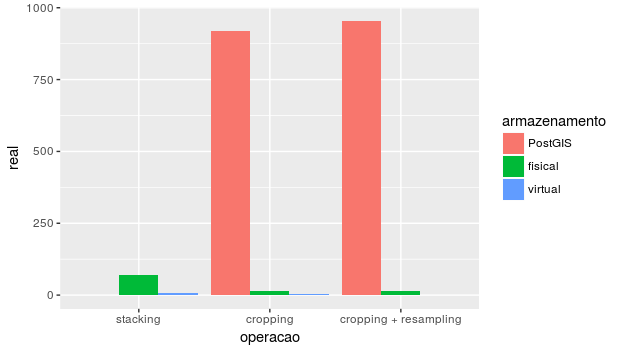
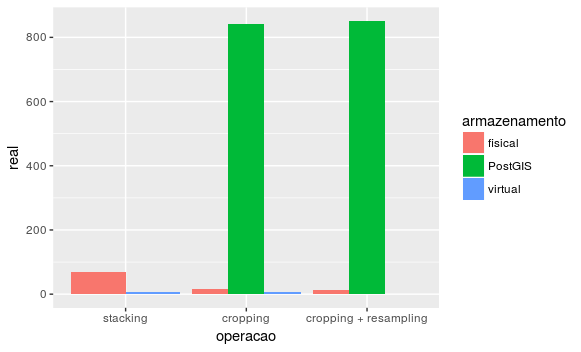
small change in postgis benchmark

diff --git a/benchmark/README.md b/benchmark/README.md
@@ -92,19 +92,29 @@ O CSV resultante foi lido e plotado com ggplot2:
 
 ```{r}
 bench <- read.csv("./benchmark_raster.csv", sep=';')
-benchPostGIS <- (list.files("./", pattern = "_mod"))
-tables <- lapply(benchPostGIS, read.csv, sep=";")
+bench <- bench[,c(1,4,5)]
+
+benchPostGIS <- (list.files("./", pattern = "benchmark_rasterCrop"))
+tables <- lapply(benchPostGIS, read.csv, sep=";", header=FALSE)
 library(data.table)
 tables <- rbindlist(tables)
-tables <- rbind(tables, bench)
+names(tables)
+library(plyr)
+result$V4 <- as.character(result$V4)
+result[1,1] <- "cropping"
+names(result) <- c("operacao", "real")
+result$armazenamento <- "PostGIS"
+result <- result[,c(2,1,3)]
+
+tables <- rbind(result, bench)
 bench <- tables
 # Reordena o factor para stacking ser impresso primeiro no gráfico
-bench$operacao <- factor(bench$operacao, levels(bench$operacao)[c(3,1,2)])
-
+bench$operacao <- factor(bench$operacao, as.factor(bench$operacao)[c(3,1,2)])
 # Plota o gráfico
 library(ggplot2)
 ggplot(bench, aes(operacao,real, fill=armazenamento)) +
   geom_bar(stat='identity', position=position_dodge())
+
 ```
 
 ![Gráfico comparativo de operações com raster](plot.png)
